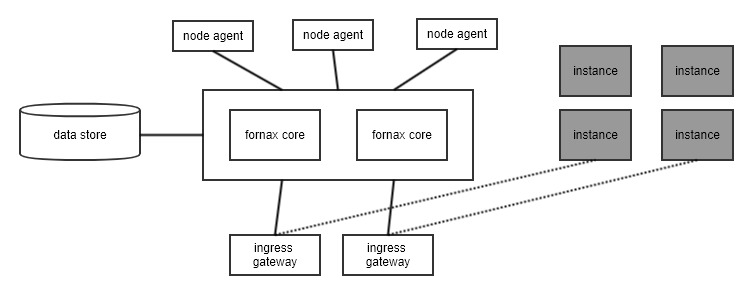
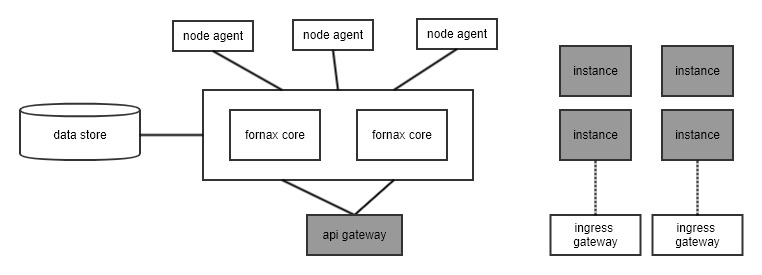
arch doc: split ingress gateway and api gateway

diff --git a/doc/design/architecture.md b/doc/design/architecture.md
@@ -219,7 +219,7 @@ Fornax core, running as one single process, provides API service and manages 4 m
 
 Node agent runs on each node, creating/removing Pod as requested, and reporting node status and pod status back to the system manager. Node agent is customized on basis of Kubelet; the protocol of these reports is Kubernetes API calls for Node and Pod status updates.
 
-Ingress gateway is a network entity providing access to application instances running on nodes. It is also used as the API gateway for upstream services (like gaming services) to access the public management API to manage the required resources.
+Ingress gateway is a network entity providing access to applications running on nodes.
 
 ### Instance Scheduling
 The critical performance trait is the latency to implement a workload: from client request (to claim) an instance till the instance able to serve traffic passed in through the exposed endpoint. 
@@ -311,17 +311,20 @@ Instance reuses Kubernetes Pod type for the workload. Its application link is de
 | Condition | Latency target |
 | --------- | -------------- |
 | Have Ready instance in pool | 99% <100ms |
-| Have Standby instance in pool | 99% <1.5s |
-| Out of stock in pool | 99% <5s (or 2-3s) |
+| Have Standby instance in pool | 99% <1s |
+| Out of stock in pool | 99% <2s |
 
 #### Node management
 Receives report of node status from node agent and keep node information up to date. This component is stateless by itself; node data is kept in the fornax core memory and persistent to by external data store as well.
 
 #### Endpoint management
-Maintain the mapping of instance to its endpoint mapping. Whenever it changes, it will notify the ingress gateway via its API.
+Maintain the mapping of endpoints to the internal applications running on nodes. Whenever it changes, it will notify the ingress gateway via its API.
 
 ### Ingress Gateway
-This component is needed for an environment for external clients to access the public API offered by system manager, or access instance by the exposed endpoint. Fornax-serverless will provide an ingress gateway by adapting nginx-ingress (or HAProxy), as a reference implementation.
+This component is needed for an environment for external clients to access application sessions by the exposed endpoints.
+
+### API Gateway
+For upstream services (like gaming services) to access the public management API to manage the required resources. This is not part of system to develop; will leverage exitent edge facility or proven industry practice (e.g. keeplived) to provide such functionality.
 
 ### Node agent
 Mostly based on kubelet; expected to have some change to leverage Quark runtime’s standby/ready modes.
